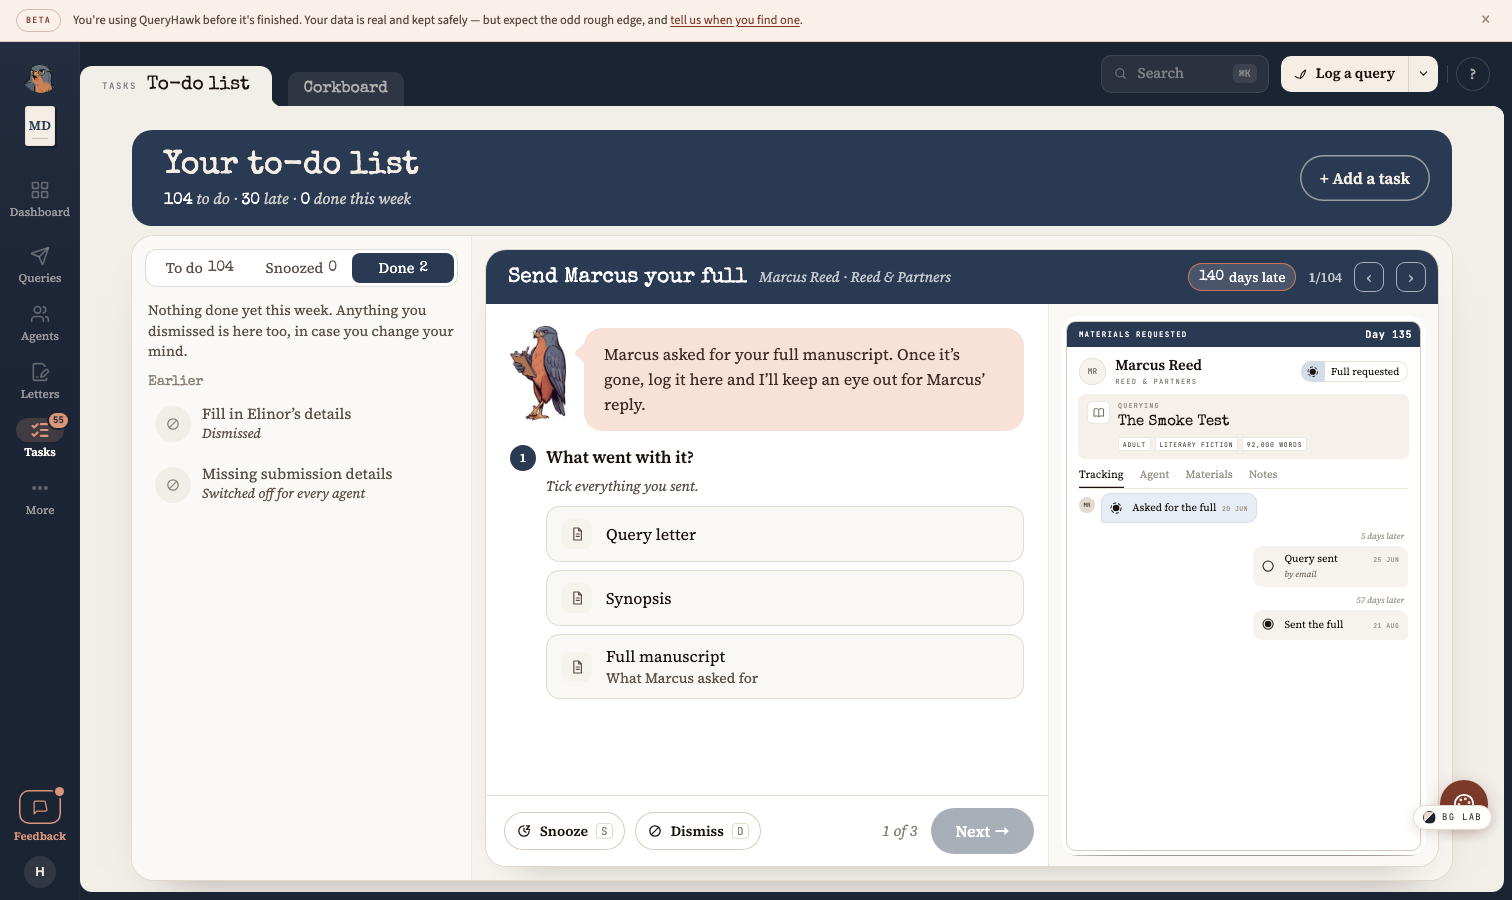
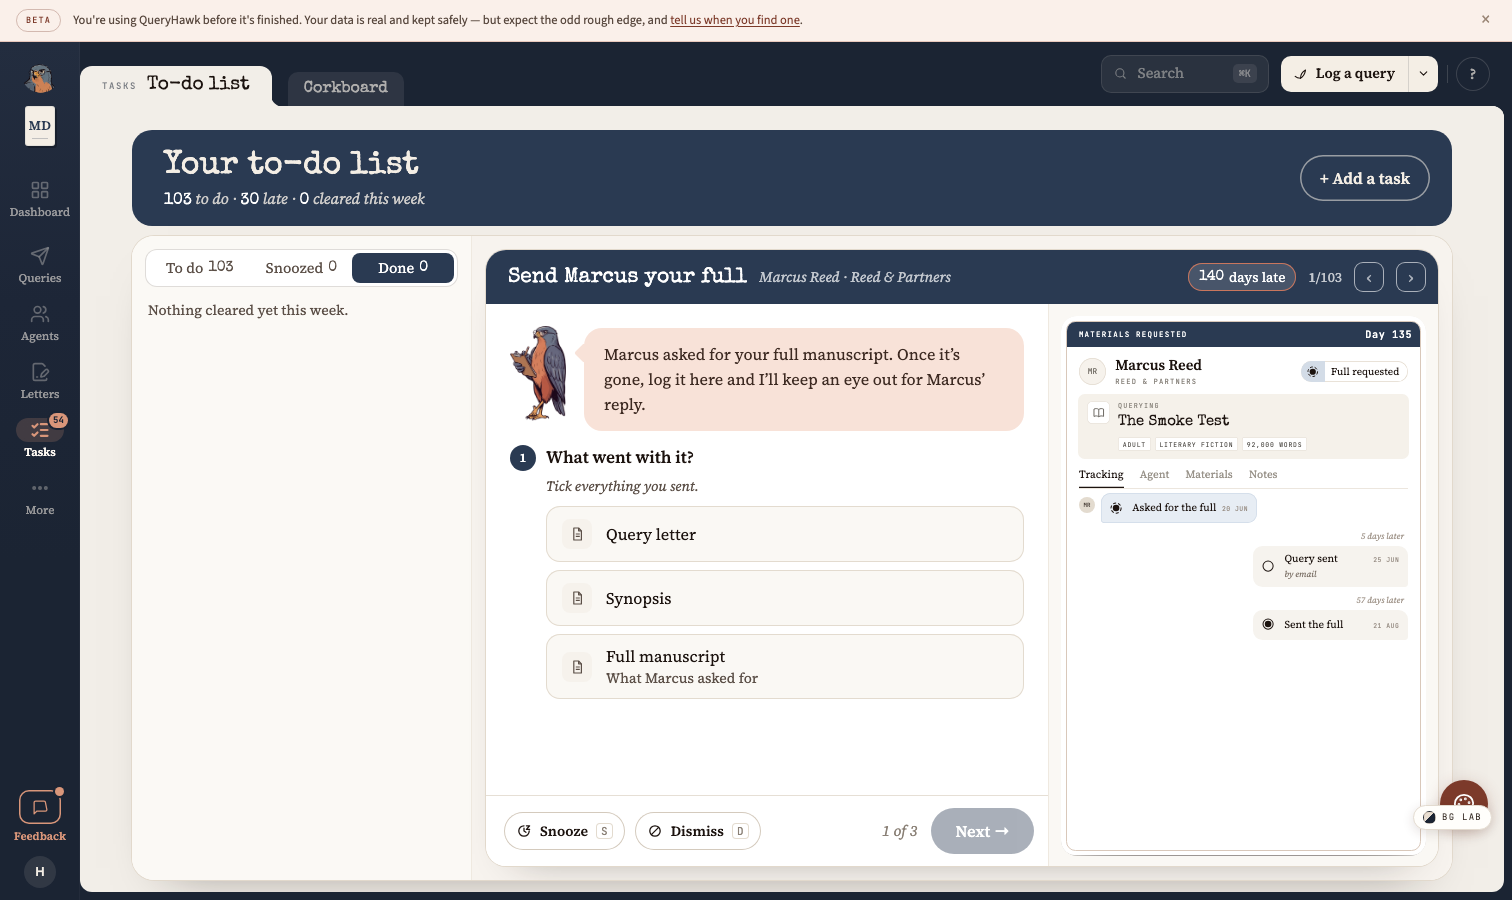
To-do list v52: one count for "cleared this week"
The Done tab lists this week only, from Monday 00:00 London: what was ticked off and what was dismissed, grouped by day. The header's "{n} cleared this week", the tab's count and the intro line all read the length of that one list (doneTabRows). L14 writes fixtures for one done task this week, one dismissal this week and one last week. On the old code it was red: last week's dismissal was listed, and the tab read 5 against the header's 1. With the fix it is green: both read 2 and last week's dismissal is gone. A dismissal with no date (a switched-off rule, a legacy mute) can no longer be placed, so it no longer shows on the tab. The report says so.

diff --git a/tests/e2e/todoV52.measure.ts b/tests/e2e/todoV52.measure.ts
@@ -160,7 +160,7 @@ test("L2 · the header: title, stats, + Add a task; no priority line", async ({ 
   await expect(hd.locator("h1")).toHaveText("Your to-do list");
   const stats = ((await hd.locator('[data-tws="stats"]').textContent()) ?? "").replace(/\s+/g, " ").trim();
   note(`L2${MUT ? `-${MUT}` : ""}`, { stats, text: await hd.textContent() });
-  expect(stats).toMatch(/(^|· )\d+ to do · \d+ late · \d+ done this week$/);
+  expect(stats).toMatch(/(^|· )\d+ to do · \d+ late · \d+ cleared this week$/);
   await expect(hd.getByRole("button", { name: "+ Add a task" })).toBeVisible();
   const bad = await hd.evaluate((h) => [...h.querySelectorAll("*")].filter((e) => /highest priority|Start here/.test(e.textContent ?? "")).length);
   expect(bad, "nothing in the header says “highest priority” or “Start here”").toBe(0);
@@ -479,5 +479,63 @@ test("L12 · Housekeeping: the slate header, icon tiles with initials, Quick fil
     if (!/^Fill in what you sent/.test(x.title)) expect(x.badge, `${x.title}: an initials badge`).toBe(true);
     expect(x.chip).toBe("Quick fill");
     expect(x.noDate, `${x.title}: no “No date”`).toBe(false);
+  }
+});
+
+/* ══ L14 one count for "cleared this week" (7 Nov) ═══════════════════════════════════════════════════════════════════
+   Fixtures written straight to the emulator (owner token, so no rules), and removed in the same run: one own task
+   ticked off now, one dismissal now, and one dismissal eight days ago (always before this week's Monday). The header
+   and the Done tab must say the same number, the tab must show exactly that many rows, and last week's dismissal must
+   not be among them. */
+const EMU = "http://127.0.0.1:8085/v1/projects/demo-scriptally/databases/(default)/documents";
+const OWNER = { Authorization: "Bearer owner", "Content-Type": "application/json" };
+const fsVal = (v: unknown): unknown => typeof v === "boolean" ? { booleanValue: v } : typeof v === "number" ? { integerValue: String(v) } : { stringValue: String(v) };
+const fsDoc = (o: Record<string, unknown>) => ({ fields: Object.fromEntries(Object.entries(o).map(([k, v]) => [k, fsVal(v)])) });
+async function emuPut(path: string, o: Record<string, unknown>) {
+  const r = await fetch(`${EMU}/${path}`, { method: "PATCH", headers: OWNER, body: JSON.stringify(fsDoc(o)) });
+  if (!r.ok) throw new Error(`emulator write ${path}: ${r.status} ${await r.text()}`);
+}
+const emuDel = (path: string) => fetch(`${EMU}/${path}`, { method: "DELETE", headers: OWNER });
+
+test("L14 · one count: the header and the Done tab both say how many were cleared this week, and nothing older shows", async ({ page }) => {
+  test.setTimeout(120_000);
+  await open(page, SIZES[1]);
+  const uid = await page.evaluate(() => {
+    for (let i = 0; i < localStorage.length; i++) { const k = localStorage.key(i)!; if (k.startsWith("firebase:authUser:")) return JSON.parse(localStorage.getItem(k)!).uid as string; }
+    return null;
+  }) ?? await page.evaluate(async () => {
+    const db = await new Promise<IDBDatabase>((res, rej) => { const o = indexedDB.open("firebaseLocalStorageDb"); o.onsuccess = () => res(o.result); o.onerror = () => rej(o.error); });
+    const all = await new Promise<{ value: { uid: string } }[]>((res) => { const r = db.transaction("firebaseLocalStorage").objectStore("firebaseLocalStorage").getAll(); r.onsuccess = () => res(r.result); });
+    return all.find((x) => x.value?.uid)?.value.uid ?? null;
+  });
+  expect(uid, "the signed-in uid").toBeTruthy();
+  const ag = await (await fetch(`${EMU}/users/${uid}/agents?pageSize=2`, { headers: OWNER })).json() as { documents?: { name: string }[] };
+  const [a1, a2] = (ag.documents ?? []).map((d) => d.name.split("/").pop()!);
+  expect(a2, "two agents on the account").toBeTruthy();
+  const now = Date.now();
+  const paths = { done: `users/${uid}/tasks/td52-l14-done`, mine: `users/${uid}/taskFlags/td52-l14-this`, old: `users/${uid}/taskFlags/td52-l14-last` };
+  const hd = page.locator(`${PG} [data-tws="header"] [data-tws="stats"]`);
+  const tabBtn = page.locator(`${PG} .tws-seg button`, { hasText: "Done" });
+  const nOf = async (l: Locator) => Number(((await l.textContent()) ?? "").match(/(\d+) cleared this week|Done\s*(\d+)/)?.slice(1).find(Boolean) ?? NaN);
+  try {
+    await emuPut(paths.done, { id: "td52-l14-done", userId: uid, text: "L14 ticked off this week", done: true, createdAt: new Date(now - 3600e3).toISOString(), completedAt: new Date(now).toISOString() });
+    await emuPut(paths.mine, { id: "td52-l14-this", userId: uid, taskType: "data_quality_poor", agentId: a1, snoozeCount: 0, skippedAt: new Date(now).toISOString() });
+    await emuPut(paths.old, { id: "td52-l14-last", userId: uid, taskType: "data_quality_poor", agentId: a2, snoozeCount: 0, skippedAt: new Date(now - 8 * 864e5).toISOString() });
+    await mutate(page, "L14");
+    await tabBtn.click();
+    const list = page.locator(`${PG} [data-tws-done]`);
+    await expect(page.locator(`${PG} [data-tws-done="task:td52-l14-done"]`)).toHaveCount(1, { timeout: 15_000 });
+    await expect(page.locator(`${PG} [data-tws-done="flag-td52-l14-this"]`)).toHaveCount(1);
+    const header = await nOf(hd), tab = await nOf(tabBtn), rows = await list.count();
+    const lastShown = await page.locator(`${PG} [data-tws-done="flag-td52-l14-last"]`).count();
+    const intro = ((await page.locator(`${PG} .tws-note`).first().textContent()) ?? "").replace(/\s+/g, " ").trim();
+    note(`L14${MUT ? `-${MUT}` : ""}`, { header, tab, rows, lastShown, intro });
+    expect(lastShown, "last week's dismissal is not shown").toBe(0);
+    expect(tab, "the Done tab's count is the rows it shows").toBe(rows);
+    expect(header, "the header says the same number as the Done tab").toBe(tab);
+    expect(intro).toBe(`${header} cleared this week. Anything you dismissed is here too, in case you change your mind.`);
+    expect(rows, "with only the fixtures this week, the count is 2 (the harness snapshot holds nothing cleared this week)").toBe(2);
+  } finally {
+    await Promise.all(Object.values(paths).map(emuDel));
   }
 });

diff --git a/src/components/todo/ws/TodoWorkspace.tsx b/src/components/todo/ws/TodoWorkspace.tsx
@@ -23,8 +23,8 @@ import { localYMD } from "../../../lib/shellSidebar";
 import type { BoardCard } from "../../../lib/todoBoard";
 import { SWEEP_NEED, groupFor, trayItem, type TrayDb, type TrayItem } from "../../../lib/todoTray";
 import {
-  NO_WS_FILTERS, STRIP_GROUP, WS_GROUPINGS, WS_TYPES, WS_WHENS, dayBit, doingPhrase, dueChip, mentorLine, passes, priorityTask, quietSuggestion, startReason, stripWords, whenOf, wsSections, wsTasks,
-  type QuietFacts, type WsFilters, type WsGroupId, type WsGrouping, type WsTask, type WsType, type WsWhen,
+  NO_WS_FILTERS, STRIP_GROUP, WS_GROUPINGS, WS_TYPES, WS_WHENS, dayBit, doingPhrase, doneTabRows, dueChip, mentorLine, passes, priorityTask, quietSuggestion, startReason, stripWords, whenOf, wsSections, wsTasks,
+  type DoneRow, type QuietFacts, type WsFilters, type WsGroupId, type WsGrouping, type WsTask, type WsType, type WsWhen,
 } from "../../../lib/todoWs";
 import { clearedThisWeek, type ClearedAct } from "../../../lib/todoCleared";
 import { setAsideItems, setAsideLabel, RULE_TITLE, RULE_PLAIN, type SetAsideItem } from "../../../lib/taskSettings";
@@ -360,6 +360,9 @@ export const TodoWorkspace: React.FC<{ onNavigate: (tab: string, sub?: string, o
       default: return setAsideLabel(a);
     }
   };
+  /** the Done tab's rows, this week only; their number is the header's "cleared this week" and the tab's count */
+  const doneRows = doneTabRows(done, dismissed, asideTitle, now);
+  const clearedN = doneRows.length;
   const bringBack = async (a: SetAsideItem) => {
     const r = a.restore;
     if ("rule" in r) {
@@ -572,16 +575,11 @@ export const TodoWorkspace: React.FC<{ onNavigate: (tab: string, sub?: string, o
       );
     }
     if (tab === "done") {
-      type Row = { key: string; ms: number; label: string; sub: string; dis?: SetAsideItem };
-      const rows: Row[] = [
-        ...done.map((d) => ({ key: d.id, ms: d.at, label: d.label, sub: d.consequence })),
-        ...dismissed.map((a) => ({ key: a.id, ms: a.at ? Date.parse(a.at) : 0, label: asideTitle(a), sub: a.kind === "rule" ? "Switched off for every agent" : "Dismissed", dis: a })),
-      ].sort((x, y) => y.ms - x.ms);
-      const byDay = new Map<string, Row[]>();
-      for (const r of rows) { const k = r.ms ? dayWord(r.ms, today) : "Earlier"; byDay.set(k, [...(byDay.get(k) ?? []), r]); }
+      const byDay = new Map<string, DoneRow[]>();
+      for (const r of doneRows) { const k = dayWord(r.ms, today); byDay.set(k, [...(byDay.get(k) ?? []), r]); }
       return (
         <>
-          <p className="tws-note">{done.length ? <><b>{done.length} done this week.</b> Nice going.</> : "Nothing done yet this week."} Anything you dismissed is here too, in case you change your mind.</p>
+          <p className="tws-note">{clearedN ? <><b>{clearedN} cleared this week.</b> Anything you dismissed is here too, in case you change your mind.</> : "Nothing cleared yet this week."}</p>
           {[...byDay].map(([k, list]) => (
             <React.Fragment key={k}>
               <div className="tws-dlab">{k}</div>
@@ -825,7 +823,7 @@ export const TodoWorkspace: React.FC<{ onNavigate: (tab: string, sub?: string, o
             <div className="tws-ht">
               <h1 className="tws-ttl" data-page-title>Your to-do list</h1>
               <p className="tws-stats" data-tws="stats">
-                {statBook ? <>{statBook} · </> : null}<b>{seq.length}</b> to do · <b>{lateN}</b> late · <b>{done.length}</b> done this week
+                {statBook ? <>{statBook} · </> : null}<b>{seq.length}</b> to do · <b>{lateN}</b> late · <b>{clearedN}</b> cleared this week
               </p>
             </div>
             <span className="tws-sp" />
@@ -865,7 +863,7 @@ export const TodoWorkspace: React.FC<{ onNavigate: (tab: string, sub?: string, o
                 <div className="tws-seg" role="group" aria-label="Show">
                   <button type="button" aria-pressed={tab === "todo"} onClick={() => setTab("todo")}>To do <b data-tws="todo-count">{seq.length}</b></button>
                   <button type="button" aria-pressed={tab === "snoozed"} onClick={() => setTab("snoozed")}>Snoozed <b>{snoozed.length}</b></button>
-                  <button type="button" aria-pressed={tab === "done"} onClick={() => setTab("done")}>Done <b>{done.length + dismissed.length}</b></button>
+                  <button type="button" aria-pressed={tab === "done"} onClick={() => setTab("done")}>Done <b>{clearedN}</b></button>
                 </div>
                 {tab === "todo" ? (
                   <>

diff --git a/src/lib/todoWs.test.ts b/src/lib/todoWs.test.ts
@@ -5,10 +5,12 @@
  * To-do list v50 — the workspace's model (lib/todoWs): kinds and titles, the housekeeping expansion, notes kept out,
  * the priority line, the day counts and the Mentor's words.
  */
+import type { SetAsideItem } from "./taskSettings";
+import type { ClearedAct } from "./todoCleared";
 import { describe, expect, it } from "vitest";
 import { QueryStatus, type Agent, type Query, type UserTask } from "../types";
 import type { TrayItem } from "./todoTray";
-import { andList, dayBit, doingPhrase, dueChip, mentorLine, passes, priorityTask, replyWords, startReason, stripWords, whenOf, wsSections, wsTasks, NO_WS_FILTERS, STRIP_GROUP, type WsTask } from "./todoWs";
+import { andList, dayBit, doingPhrase, doneTabRows, dueChip, mentorLine, passes, priorityTask, replyWords, startReason, stripWords, whenOf, wsSections, wsTasks, NO_WS_FILTERS, STRIP_GROUP, type WsTask } from "./todoWs";
 
 const NOW = Date.parse("2026-11-05T10:00:00");
 const ymd = (d: number) => { const x = new Date(NOW + d * 86400000); return `${x.getFullYear()}-${String(x.getMonth() + 1).padStart(2, "0")}-${String(x.getDate()).padStart(2, "0")}`; };
@@ -264,5 +266,21 @@ describe("the materials batch", () => {
     (s1.card as { relatedRecordId?: string }).relatedRecordId = qs[0].id;
     const one = wsTasks([s1], ag, () => null, () => [], NOW, () => [], qs);
     expect(one.map((t) => [t.kind, t.title])).toEqual([["other", "Fill in what you sent Agent0"]]);
+  });
+});
+
+/* ── v52, 7 Nov: the Done tab and "cleared this week" are one count ── */
+describe("doneTabRows", () => {
+  /* Saturday 7 Nov 2026, noon London; the week began Monday 2 Nov 00:00 */
+  const now = Date.parse("2026-11-07T12:00:00Z");
+  const dis = (id: string, at?: string) => ({ id, kind: "dismiss", at, label: "x", who: "Ana", restore: {} }) as unknown as SetAsideItem;
+  const ticked = { id: "task:t1", at: Date.parse("2026-11-06T09:00:00Z"), label: "Ticked", consequence: "Off your list" } as unknown as ClearedAct;
+  it("lists this week's ticked-off and dismissed tasks only, and nothing older or undated", () => {
+    const rows = doneTabRows([ticked], [dis("this", "2026-11-05T10:00:00Z"), dis("last", "2026-10-30T10:00:00Z"), dis("undated")], (a) => a.id, now);
+    expect(rows.map((r) => r.key)).toEqual(["task:t1", "this"]);
+  });
+  it("Monday 00:00 London is in the week; Sunday 23:59 is not (GMT in November)", () => {
+    const rows = doneTabRows([], [dis("mon", "2026-11-02T00:00:00Z"), dis("sun", "2026-11-01T23:59:00Z")], (a) => a.id, now);
+    expect(rows.map((r) => r.key)).toEqual(["mon"]);
   });
 });

diff --git a/src/lib/todoWs.ts b/src/lib/todoWs.ts
@@ -18,6 +18,8 @@ import { QueryStatus, type Agent, type Query, type UserTask } from "../types";
 import type { TrayItem } from "./todoTray";
 import type { AgentDataNeed } from "./agentDataQuality";
 import { isTaskType, type TaskType } from "./todoActions";
+import { londonDayEnd, londonWeekStart, type ClearedAct } from "./todoCleared";
+import type { SetAsideItem } from "./taskSettings";
 
 const DAY = 86400000;
 const MONTHS_LONG = ["January", "February", "March", "April", "May", "June", "July", "August", "September", "October", "November", "December"];
@@ -441,4 +443,23 @@ export function stripWords(t: WsTask): StripWords {
   if (d === 0) return { name, what, when: "Today", hot: true };
   if (d === 1) return { name, what, when: "Tmrw", hot: true };
   return { name, what, when: `${d}d`, hot: false };
+}
+
+/* ── To-do list v52 (7 Nov) — the Done tab and "cleared this week" are one count ───────────────── */
+
+export interface DoneRow { key: string; ms: number; label: string; sub: string; dis?: SetAsideItem }
+
+/**
+ * The Done tab's rows: what was ticked off and what was dismissed THIS WEEK (Monday 00:00 London to the end of today),
+ * newest first. Its length is the header's "{n} cleared this week" and the tab's count, so the two cannot disagree.
+ * ⚠ A dismissal with no date (a switched-off rule, a legacy mute) cannot be placed in a week, so it is not listed.
+ */
+export function doneTabRows(done: readonly ClearedAct[], dismissed: readonly SetAsideItem[], titleOf: (a: SetAsideItem) => string, nowMs: number): DoneRow[] {
+  const from = londonWeekStart(nowMs), until = londonDayEnd(nowMs);
+  const inWeek = (t: number) => Number.isFinite(t) && t >= from && t < until;
+  return [
+    ...done.filter((d) => inWeek(d.at)).map((d) => ({ key: d.id, ms: d.at, label: d.label, sub: d.consequence })),
+    ...dismissed.filter((a) => inWeek(a.at ? Date.parse(a.at) : NaN))
+      .map((a) => ({ key: a.id, ms: Date.parse(a.at!), label: titleOf(a), sub: a.kind === "rule" ? "Switched off for every agent" : "Dismissed", dis: a })),
+  ].sort((x, y) => y.ms - x.ms);
 }

diff --git a/tests/e2e/todoWs.measure.ts b/tests/e2e/todoWs.measure.ts
@@ -98,7 +98,8 @@ test("the snoozed and done tabs, and the pop-ups", async ({ page }) => {
   await expect(tray.getByText(/come back to/)).toBeVisible();
   await page.screenshot({ path: `${DIR}/snoozed.png` });
   await tray.getByRole("button", { name: /^Done/ }).click();
-  await expect(tray.getByText(/dismissed is here too/)).toBeVisible();
+  /* v52 (7 Nov): the intro is "{n} cleared this week. …" or, with nothing cleared, "Nothing cleared yet this week." */
+  await expect(tray.getByText(/cleared this week\.|Nothing cleared yet this week\./)).toBeVisible();
   await page.screenshot({ path: `${DIR}/done.png` });
   await tray.getByRole("button", { name: /^To do/ }).click();
   const desk = page.locator('[data-tws="desk"]:visible');

diff --git a/reports/todo-list-v52/REPORT.md b/reports/todo-list-v52/REPORT.md
@@ -88,6 +88,20 @@ Run against the emulator (`npm run dev:emu` in this worktree on its own ports; s
 To-do preview read `["Tracking-PROBE","Agent","Materials","Notes"]` with nothing else changed; the file was restored
 from a path-named copy (no diff).
 
+**L14: one count for "cleared this week" (added 7 Nov, after the deploy).** The Done tab now lists this week only
+(Monday 00:00 London to the end of today): tasks ticked off and tasks dismissed, grouped by day as before. The header's
+"{n} cleared this week" and the tab's "Done {n}" are both the length of that one list (`doneTabRows`, `lib/todoWs.ts`).
+The intro reads "{n} cleared this week. Anything you dismissed is here too, in case you change your mind.", or
+"Nothing cleared yet this week." The lock writes three fixtures to the emulator and removes them in the same run:
+an own task ticked off now, a dismissal now, and a dismissal eight days ago.
+- Red on the old code: last week's dismissal was listed, the tab read 5 against the header's 1, and the header said "done this week".
+- Green with the fix: header 2, tab 2, 2 rows, last week's absent, and the intro exactly as specified.
+
+v51.1's `todoWs` check on the Done tab now looks for either intro.
+**⚠ What this costs:** a dismissal with no date can't be placed in a week, so it no longer appears on the Done tab.
+That covers a switched-off rule ("Switched off for every agent") and an old-style mute. The Done tab was the only
+place to bring either back, so after this change there is no way to turn back on a rule switched off earlier.
+
 **L10 and "the save once" (re-pointed 7 Nov, after the deploy):** one press of Log it on a nudge writes exactly three
 different documents, each once (`saveNudgeSent`, `lib/queryActions/stepSaves.ts`):
 1. `users/{uid}/queries/{id}/activity/act-…`: the step in the query's own log (`type`, `createdAt`, `note`, `eventKey: nudge_sent`, `reminderDate`, `agentName`, `queryId`).
